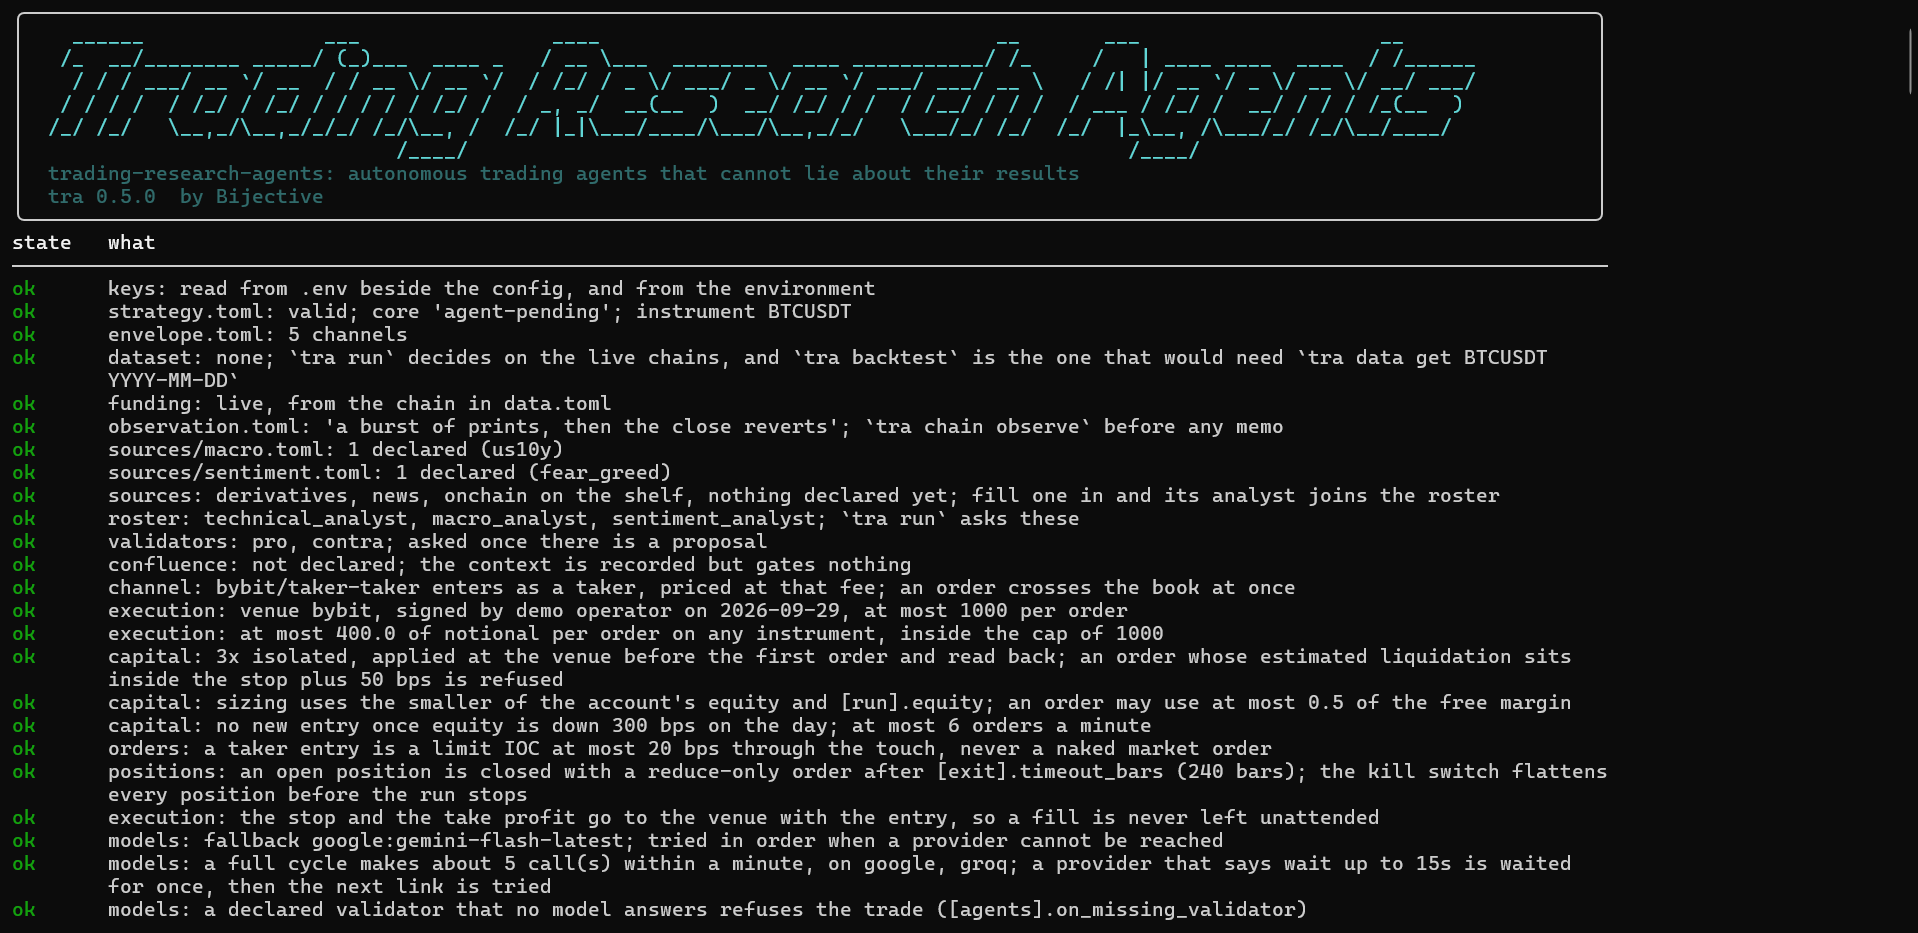
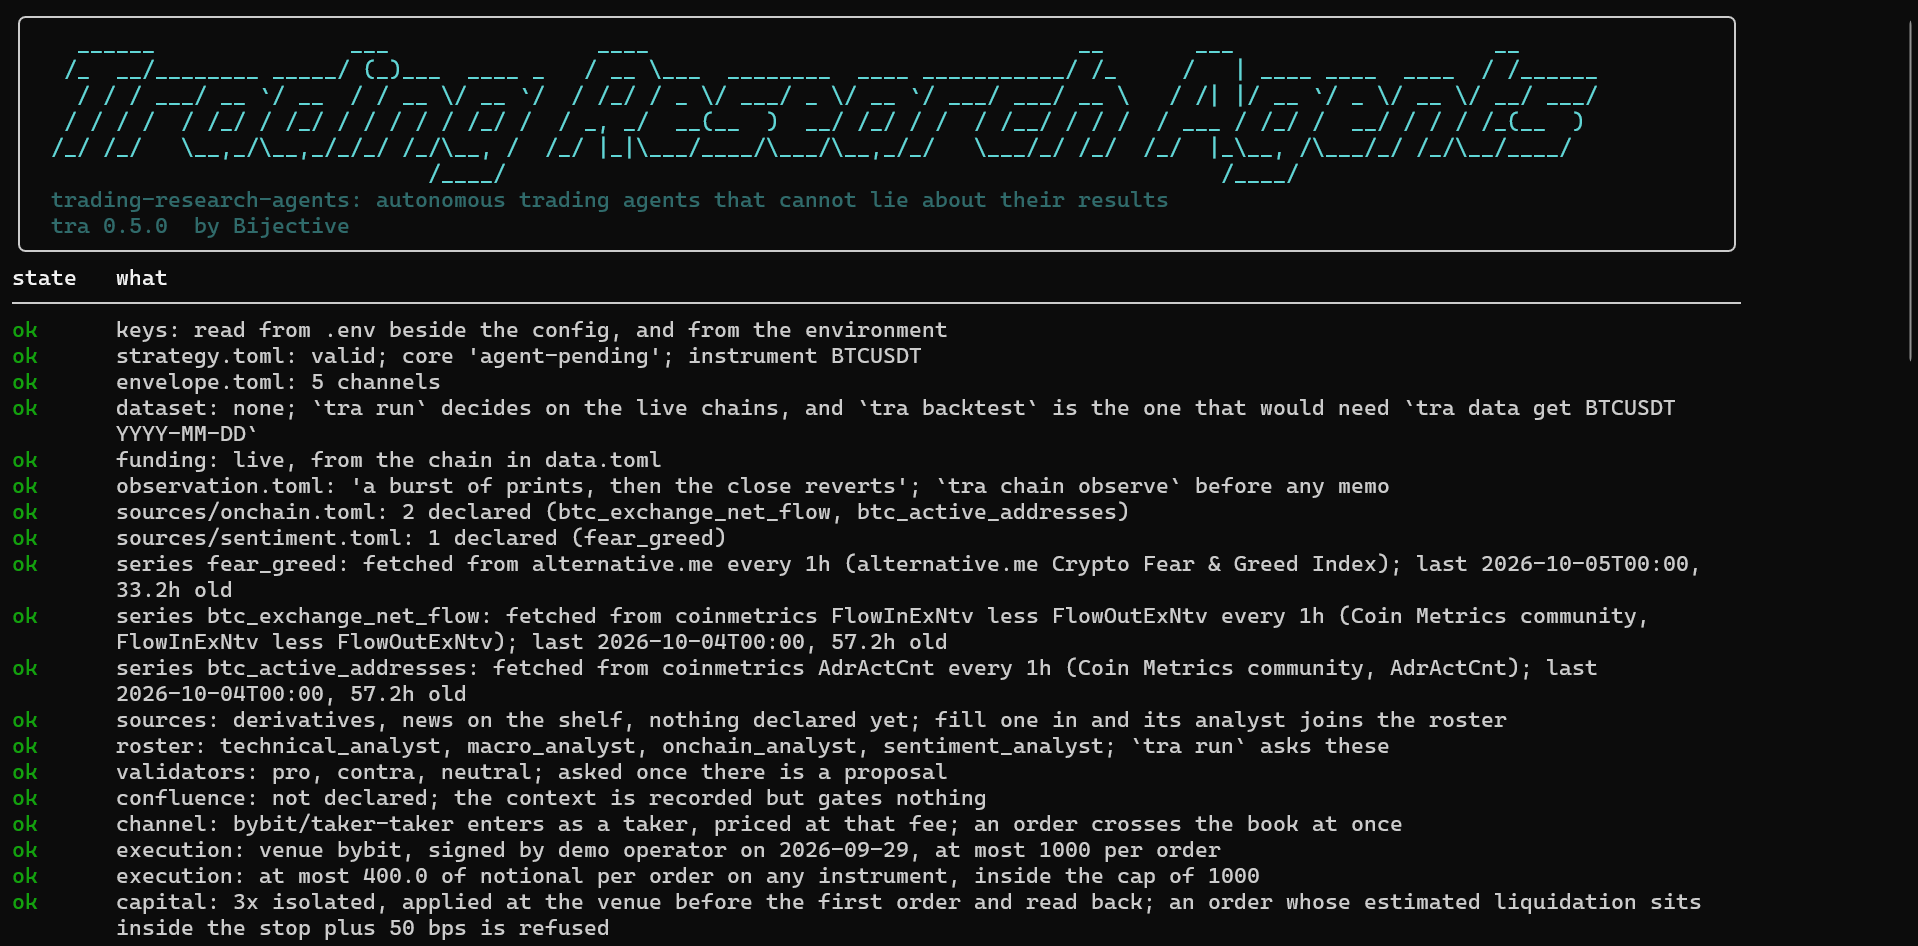
Scheduler states the clock time of the next pass; screener-empty pass named; README in reading order

Changed region(s): [[0.0, 0.0, 0.8921, 0.9946], [0.0, 0.746, 0.0308, 0.9636]]

diff --git a/src/trading_research_agents/cli/main.py b/src/trading_research_agents/cli/main.py
@@ -2282,6 +2282,14 @@ class Schedule:
     def looping(self) -> bool:
         return self.every_s is not None
 
+    @property
+    def every_label(self) -> str:
+        every = int(self.every_s or 0)
+        for size, unit in ((3600, "h"), (60, "m")):
+            if every >= size and every % size == 0:
+                return f"{every // size}{unit}"
+        return f"{every}s"
+
     def stop_reason(self, result: Any, ran: int) -> str:
         if not self.looping:
             return "one cycle"
@@ -2301,6 +2309,18 @@ class Schedule:
         if every <= 0:
             return 0.0
         return round(every - (self.clock() % every), 3)
+
+    def announce(self, left: float) -> str:
+        """The wait as an operator reads it: when it ends on the clock, and why it is short."""
+        ends = datetime.fromtimestamp(self.clock() + left, tz=UTC).strftime("%H:%M:%S")
+        minutes, seconds = divmod(int(left + 0.999), 60)
+        hours, minutes = divmod(minutes, 60)
+        shown = f"{hours}h {minutes:02d}m" if hours else f"{minutes}m {seconds:02d}s"
+        return (
+            f"scheduler: next pass at {ends} UTC, in {shown}. "
+            f"Passes land on the clock, every {self.every_label}, "
+            "not a full interval after the last one"
+        )
 
     def wait(self) -> float:
         """Sleep to the next boundary and say how long that was."""
@@ -2565,7 +2585,7 @@ def run_cycle_command(args: argparse.Namespace) -> int:
                 # meantime needs to know the desk is waiting rather than stuck.
                 left = schedule.left()
                 if not args.json:
-                    sys.stdout.write(f"scheduler: next cycle in {left}s\n")
+                    sys.stdout.write(schedule.announce(left) + "\n")
                     sys.stdout.flush()
                 if _watching(args.json) and left > 0:
                     _ui().countdown(left)

diff --git a/src/trading_research_agents/execution/universe.py b/src/trading_research_agents/execution/universe.py
@@ -228,8 +228,12 @@ def why_no_cycle(rows: Sequence[Mapping[str, Any]]) -> str:
     )
     found: dict[str, list[Mapping[str, Any]]] = {name: [] for name, _ in causes}
     rest: list[str] = []
+    passed_over: list[str] = []
     for row in rows:
         if row.get("admitted") and row.get("kept_by_screener", True):
+            continue
+        if row.get("admitted"):
+            passed_over.append(str(row["instrument"]))
             continue
         cause = next((name for name, words in causes if held_for(row, words)), None)
         if cause is None:
@@ -253,6 +257,11 @@ def why_no_cycle(rows: Sequence[Mapping[str, Any]]) -> str:
         said.append(f"{', '.join(capped)} waiting: the desk is at [desk].max_open_positions")
     if quiet:
         said.append(f"{', '.join(quiet)} not moved enough for [trigger]")
+    if passed_over:
+        said.append(
+            f"the screener took none of the {len(passed_over)} that code admitted; "
+            "its reason for each is above"
+        )
     if rest:
         said.append(f"{', '.join(rest)} held for other reasons (above)")
     if open_now and paired and not quiet and not rest:

diff --git a/tests/test_universe.py b/tests/test_universe.py
@@ -323,6 +323,25 @@ def test_an_empty_pass_says_which_rule_held_each_instrument() -> None:
     assert why_no_cycle(quiet) == "BTCUSDT not moved enough for [trigger]"
 
 
+def test_a_pass_the_screener_emptied_says_so_rather_than_blaming_the_trigger() -> None:
+    from trading_research_agents.execution.universe import why_no_cycle
+
+    rows = [
+        {"instrument": "BTCUSDT", "admitted": True, "kept_by_screener": False, "reasons": []},
+        {"instrument": "ETHUSDT", "admitted": True, "kept_by_screener": False, "reasons": []},
+        {
+            "instrument": "NEARUSDT",
+            "admitted": False,
+            "kept_by_screener": True,
+            "reasons": ["the mid has moved 1.99 bps since the last cycle"],
+        },
+    ]
+    said = why_no_cycle(rows)
+    assert "NEARUSDT not moved enough for [trigger]" in said
+    assert "the screener took none of the 2 that code admitted" in said
+    assert "other reasons" not in said
+
+
 def test_a_full_desk_says_so_instead_of_paying_for_a_refused_cycle() -> None:
     from trading_research_agents.execution.universe import why_no_cycle
 

diff --git a/tests/test_cycle.py b/tests/test_cycle.py
@@ -1066,6 +1066,16 @@ def test_the_schedule_lands_on_the_next_boundary(tmp_path: Path) -> None:
     assert plan.wait() == 288.0 and slept == [288.0]
 
 
+def test_the_schedule_says_when_the_wait_ends_on_the_clock() -> None:
+    from trading_research_agents.cli.main import Schedule
+
+    # 1_800_000_000 is 2027-01-15 08:00:00 UTC; ten minutes into a half hour leaves twenty.
+    plan = Schedule(every_s=1800.0, clock=lambda: 1_800_000_600.0)
+    said = plan.announce(plan.left())
+    assert "08:30:00 UTC" in said and "in 20m 00s" in said and "every 30m" in said
+    assert Schedule(every_s=90.0).every_label == "90s"
+
+
 def test_a_loop_ends_on_the_budget_the_kill_switch_or_the_count(tmp_path: Path) -> None:
     from trading_research_agents.cli.main import Schedule
 

diff --git a/README.md b/README.md
@@ -11,9 +11,10 @@ The agents read those figures and give an opinion. Then code prices the trade, a
 sizes it, and either writes it down or sends one order with the stop attached. Every decision and
 every refusal is kept on disk with its reason, so you can check afterwards what happened and why.
 
-It's a pre-release and isn't on PyPI yet. What works today: the full autonomous cycle on live data,
-four analysts and three validators, the gates that decide, sizing from your own rules, real orders on
-a venue's practice environment behind a mandate you sign, and two auditors that read the records.
+It's a pre-release and isn't on PyPI yet. What works today: a universe of perpetuals found and
+measured by code, a screener that picks where to look, the full autonomous cycle on live data, four
+analysts and up to three validators, the gates that decide, sizing from your own rules, real orders
+on a venue's practice environment behind a mandate you sign, and two auditors that read the records.
 
 ---
 
@@ -21,13 +22,13 @@ a venue's practice environment behind a mandate you sign, and two auditors that 
 
 - [What it solves](#what-it-solves)
 - [Quick start](#quick-start)
-- [What you see while it runs](#what-you-see-while-it-runs)
+- [What you see, in order](#what-you-see-in-order)
 - [How one cycle decides](#how-one-cycle-decides)
 - [Venues](#venues)
 - [Models and providers](#models-and-providers)
 - [From a replay to real orders](#from-a-replay-to-real-orders)
 - [Your money, your orders, your positions](#your-money-your-orders-your-positions)
-- [The console, and watching a desk](#the-console-and-watching-a-desk)
+- [Watching a desk, and what is kept](#watching-a-desk-and-what-is-kept)
 - [Command line](#command-line)
 - [What it guarantees, and what is not built yet](#what-it-guarantees-and-what-is-not-built-yet)
 - [Documentation](#documentation)
@@ -80,53 +81,48 @@ todo  [agents].provider is still the placeholder; name the provider you have a k
 ```
 
 Name your provider and model in `strategy.toml` (see [Models and providers](#models-and-providers))
-and `tra run` decides once. `tra run --every 5m` keeps deciding as each bar closes.
+and `tra run` decides once. `tra run --every 5m` keeps deciding: the first pass runs now, then one
+every five minutes on the clock (:00, :05, :10 and so on), so the wait after a pass is whatever is
+left to the next mark, and the desk tells you the time it ends at.
 
-## What you see while it runs
+Type `tra` on its own inside the desk and you get the console, which is the next section.
 
-A cycle spends most of its time waiting on models, so the terminal shows the whole pipeline from
-the start and updates it as each step begins and ends. Steps that run at the same time spin at the
-same time, each with its own clock, and the line underneath says who is working right now:
+## What you see, in order
 
-```
-                     cycle
-step               state        detail
-────────────────────────────────────────────────
-data               done         4 kind(s) (1.2s)
-trigger            done         moved 41.20 bps
-capital            done         equity 10412.80, used 10000
-regime             done         ranging on 1m, 15m mixed, 1h trending up
-technical          / running    4s
-macro              / running    4s
-sentiment          done         2.5s
-cost               pending
-validator pro      pending
-validator contra   pending
-conviction         pending
-risk               pending
-cost gate          pending
-targets            pending
-intent             pending
-6s | working: technical, macro | 1792 tokens
-```
+**1. The console.** Run `tra` inside your desk and it opens the cockpit: what is ready, what isn't,
+and the next command to run. Under it is a prompt that takes every command and draws it right
+there. Arrow keys go back through what you typed, tab completes, `help` lists the commands and
+`exit` leaves. For scripts and cron, `tra -c "run --now"` runs one command and exits.
 
-A desk that watches several instruments shows the same kind of table for the pass over them first,
-one row per instrument, with why each one was taken or held. Here a `tra run --every 5m` desk on
-three instruments takes SOL and holds the other two, then works through the cycle with both
-validators still thinking:
+![the cockpit](assets/cockpit.png)
+
+**2. The pass over your instruments.** Type `run --every 5m` and the desk first refreshes any data
+series that are due, one line each. Then it looks at every instrument on your list, one data pull
+apiece, and measures it. The screen steps through them live:
+
+![the screen pass](assets/pair-screener.png)
+
+**3. One cycle per instrument it takes.** Code found the candidates and measured them; the screener
+chose among them and cited each instrument's own figures; code's own order is kept beside the
+choice. The instruments taken get a full cycle. The terminal shows the whole pipeline from the
+start and updates it as each step begins and ends. Steps that run at the same time spin at the same
+time, each with its own clock, and the line underneath says who is working right now:
 
 ![a scheduled desk at work](assets/trading-agents.png)
 
-Between scheduled cycles it counts down to the next one, and an auditor woken by an alarm gets a
-spinner of its own. When the cycle finishes, the table gives way to the result: the data it used
-and what the round trip costs,
+**4. The result.** When the cycle finishes, the table gives way to the pass over the universe, what
+was taken and what was held and why, then the data the cycle used and what the round trip costs:
 
 ![one cycle](assets/cycle.png)
 
-then what each validator argued, how conviction weighed the analysts, the risk at the stop, and
-whether the trade clears the desk's targets:
+After that, what each validator argued, how conviction weighed the analysts, the risk at the stop,
+and whether the trade clears the desk's targets:
 
 ![validators, conviction, risk and targets](assets/one-cycle.png)
+
+**5. Between cycles.** The desk says when the next pass is, on the clock and in minutes, for
+example `next pass at 14:30:00 UTC, in 10m 57s`, and counts down to it. An auditor woken by an alarm
+gets a spinner of its own.
 
 The same cycle as plain text (`--plain`, a pipe or a log), from a real run on live data, shortened:
 
@@ -157,10 +153,12 @@ of twice the cost and got 1.94 times. A refusal names the figure behind it, ever
 
 ```mermaid
 flowchart TD
-    engine[["code fetches the data<br/>each value carries its source and age"]] --> wake
+    find[["code finds the universe and measures each instrument<br/>one data pull each; every value carries its source and age"]] --> wake
     wake{"trigger<br/>has anything moved since the last look?"}
     wake -- "no" --> held["held: one data pull, no tokens spent"]
-    wake -- "yes" --> briefs
+    wake -- "yes" --> pick["the screener picks among what code admitted<br/>citing each instrument's own figures"]
+    pick -- "none taken" --> held
+    pick -- "taken" --> briefs
     briefs["code writes the briefs<br/>each role sees only the figures its job needs"] --> round1
     subgraph round1["asked at the same time"]
         direction LR
@@ -170,7 +168,7 @@ flowchart TD
         mood["sentiment analyst"]
     end
     round1 --> price["code prices the round trip<br/>fee, spread, impact, funding, slippage"]
-    price --> round2["validators: pro, contra, neutral<br/>a claim that cites no figure is thrown away"]
+    price --> round2["validators, as many as you declare<br/>a claim that cites no figure is thrown away"]
     round2 --> matrix{"confluence<br/>do your declared states agree with the direction?"}
     matrix -- "no" --> refused["a refusal that names its figure"]
     matrix -- "yes" --> size["conviction<br/>how much, from your ladder"]
@@ -189,7 +187,8 @@ Who does what:
 | macro analyst | dated rates and levels, dated text | risk-on, risk-off or neutral | propose a direction |
 | on-chain analyst | chain and derivatives figures | accumulation, distribution or neutral | propose a direction |
 | sentiment analyst | dated scores and notes you curate | negative, neutral, positive, or not declared | invent a mood no figure supports |
-| validators (pro, contra, neutral) | the proposal and the figures behind it | support, oppose or abstain, with cited claims | cite a figure it wasn't given |
+| market screener | what code measured for each admitted instrument: move, spread, regime, volume, correlation to BTC | which instruments to take, in what order, citing their figures | add an instrument code did not admit |
+| validators (pro, contra, neutral) | the proposal and the figures behind it | support, oppose or abstain, with cited claims | decide, or cite a figure it wasn't given |
 | technology and quant auditors | the cycles this desk recorded | findings and proposed changes | change anything |
 
 The macro, on-chain and sentiment analysts read dated series you declare under `sources/`. Each one
@@ -197,6 +196,10 @@ is either a file you keep or a feed the desk refreshes itself (FRED, the Crypto 
 or any paid vendor that answers JSON over https). `tra sources show` lists every series with where it
 came from and how old its last value is, and a value older than its `max_age` is shown as stale and
 never counted. [docs/sources.md](docs/sources.md) has the details.
+
+Which validators run is yours to declare. A vote never decides on its own: it moves conviction by
+the weight you give it (`[conviction].validator_weight`), and a stance counts for what it says beyond
+its assignment, since a pro that supports is expected to.
 
 Analysts are allowed to disagree. Each one's view becomes a score between -1 and 1, computed from
 its own figures against the lines you drew, so a macro reading barely past its line counts as a small
@@ -248,7 +251,7 @@ environment (or the `.env` beside your config) and nowhere else.
 
 | Provider | Key in `.env` | Install with | Structured output | Tested live here |
 |---|---|---|---|---|
-| `groq` | `GROQ_API_KEY` | `openai` | JSON mode, checked by code | **yes**: `openai/gpt-oss-120b`, every live cycle in our records |
+| `groq` | `GROQ_API_KEY` | `openai` | JSON schema, falling back to JSON mode; checked by code | **yes**: `openai/gpt-oss-120b` and `openai/gpt-oss-20b`, every live cycle in our records |
 | `google` | `GEMINI_API_KEY` or `GOOGLE_API_KEY` | `google-genai` | JSON schema | **yes**: `gemini-flash-latest`, as the fallback |
 | `anthropic` | `ANTHROPIC_API_KEY` | `anthropic` | JSON schema | unit-tested; default model `claude-opus-5-5` |
 | `openai` | `OPENAI_API_KEY` | `openai` | strict JSON schema | unit-tested |
@@ -277,7 +280,9 @@ model = "a-cheaper-model"
 effort = "low"
 ```
 
-`fallback` is tried in order when a provider is rate limited or down, with the same brief. Every
+`fallback` is tried in order when a provider is rate limited or down, with the same brief. A vendor's
+free tier meters each model on its own, so roles can share a provider across two models and each
+model keeps its own allowance; `tra check` judges the load per model and says when one is too much. Every
 call is a line in `usage.jsonl` with its tokens and latency, and nothing caps spend unless you
 declare a ceiling. `tra keys --probe` proves each key works without sending a prompt. A vendor of
 your own is about thirty lines (`docs/providers.md`).
@@ -347,14 +352,7 @@ Point `[run].venue_key` at a `maker-taker` channel and entries rest on the book 
 instead - a lower fee, fewer fills, since a resting order can be left behind by the market. Either
 way the cost gate prices the fee of the channel you chose.
 
-## The console, and watching a desk
-
-![the cockpit](assets/cockpit.png)
-
-Type `tra` on its own and it opens a console: the cockpit above (what's ready, what isn't, the next
-command), then a prompt that takes every command and draws it right there. Arrow keys go back
-through what you typed, tab completes, `help` lists the commands and `exit` leaves. For scripts and
-cron, `tra -c "run --now"` runs one command and exits.
+## Watching a desk, and what is kept
 
 The console runs commands in its own process, so closing it ends what it was running. A desk that
 should keep running belongs under a supervisor (systemd, a service manager, `tmux`), and then you
@@ -371,7 +369,8 @@ What is kept, and where:
 
 | What | Where | Notes |
 |---|---|---|
-| everything one cycle did | `runs/cycles/<id>/` | snapshot, briefs, answers, intent, `placed.json`, `cycle.json` |
+| everything one cycle did | `runs/cycles/<id>/` | snapshot, briefs, answers, intent, `placed.json`, `cycle.json`, and `inputs.json.gz` with the raw inputs; `cycle.json` holds a sha256 of each file |
+| the pass over the universe | `runs/screens/` | every instrument measured, what the screener chose and why |
 | every model call | `runs/cycles/usage.jsonl` | tokens, latency, price |
 | when the desk ran and what stopped it | `runs/cycles/scheduler.jsonl` | one line per start and stop |
 | every position closed, by time, by the venue or by the kill switch | `runs/cycles/positions.jsonl` | venue mode |
@@ -400,7 +399,7 @@ error. `--json` gives machine-readable output and `--plain` gives text instead o
 | Command | What it does |
 |---|---|
 | `tra run` | one autonomous cycle |
-| `tra run --every 5m --cycles 12` | twelve scheduled passes, five minutes apart, on the interval's own boundary |
+| `tra run --every 5m --cycles 12` | twelve scheduled passes: the first now, then one on every fifth minute of the clock |
 | `tra run --now` | ask the roster even if the trigger would have held a quiet market |
 | `tra watch --every 5s` | a read-only view of a running desk |
 | `tra audit` | both auditors over the records; nothing is applied |

diff --git a/CHANGELOG.md b/CHANGELOG.md
@@ -8,6 +8,15 @@ All notable changes to this project are recorded here. The format follows
 
 ### Changed
 
+- The scheduler says when the next pass ends on the clock (`next pass at 14:30:00 UTC, in 10m 57s`)
+  and why it is shorter than the interval: passes land on multiples of `--every`, so a desk started
+  at 14:16 on `--every 30m` waits until 14:30, not until 14:46.
+- When the screener takes none of what code admitted, the pass says so, instead of blaming the
+  trigger for the one instrument that did not move.
+- The macro and on-chain prompts ask for a figure named in full when two series carry the same field;
+  a bare `state` was thrown away as ambiguous.
+- README follows the order a person meets the tool: the console, the screen pass, one cycle, then
+  the result.
 - A pass holds every candidate before any model is asked when the desk already carries
   `[desk].max_open_positions`; those cycles could only be refused at the desk step, and their calls
   counted against the provider's rate limit (seen live: a validator rate-limited on a cycle that

diff --git a/docs/cycle.md b/docs/cycle.md
@@ -16,6 +16,12 @@ tra run --every 5m --cycles 12 --env-file .env   # one cycle every five minutes,
 happening rather than one that is half built. One process, no cron, no daemon: the loop is in the
 same command, and everything that should end it ends it by name.
 
+The first pass runs as soon as the desk starts. After that, passes land on the clock: with
+`--every 30m` they fall at :00 and :30 UTC, with `--every 5m` at every fifth minute. So the wait
+after a pass is whatever is left to the next boundary, not a full interval, and a pass that takes
+several minutes shortens it further. The desk says it plainly after every pass, for example
+`next pass at 08:30:00 UTC, in 20m 00s`.
+
 | Ends the loop | Why |
 |---|---|
 | the budget | a cycle that stopped because the token budget is spent will not be followed by one that costs more |

diff --git a/src/trading_research_agents/agents/prompts/macro_analyst.md b/src/trading_research_agents/agents/prompts/macro_analyst.md
@@ -18,6 +18,8 @@ Every figure you rest on goes in figures_used, by the name the brief gave it and
 value the brief carried, copied rather than rounded into a different number. Code checks each
 one against the brief and throws away the ones that do not hold, so a claim that points at
 nothing is a claim you did not make.
+When more than one series carries the same field, name it in full, series name first, for
+example series.<name>.state; a bare "state" or "value" is thrown away as ambiguous.
 
 
 A declared threshold is the operator's decision, not a suggestion. When the state that comes

diff --git a/src/trading_research_agents/agents/prompts/onchain_analyst.md b/src/trading_research_agents/agents/prompts/onchain_analyst.md
@@ -16,6 +16,8 @@ Every figure you rest on goes in figures_used, by the name the brief gave it and
 value the brief carried, copied rather than rounded into a different number. Code checks each
 one against the brief and throws away the ones that do not hold, so a claim that points at
 nothing is a claim you did not make.
+When more than one series carries the same field, name it in full, series name first, for
+example series.<name>.state; a bare "state" or "value" is thrown away as ambiguous.
 
 
 A declared threshold is the operator's decision, not a suggestion. When the state that comes
